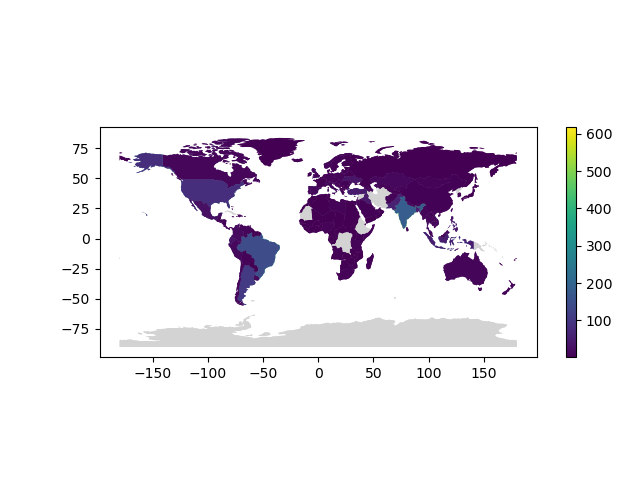
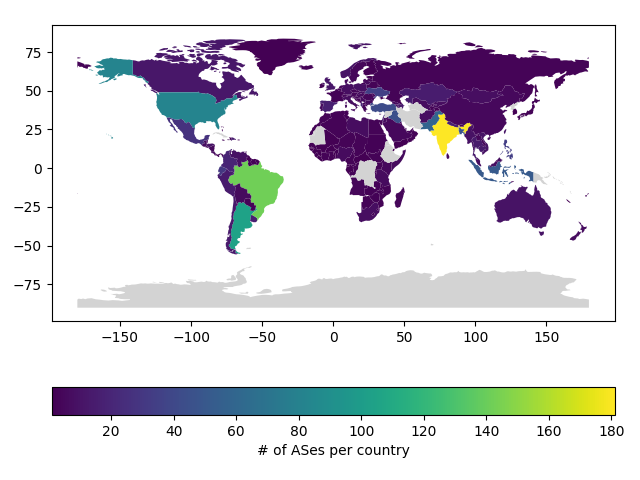
feat(offnet): add more plots per country
Add plots for hosts per country, hosts per as per country and hosts per
thousand inhabitants per country

Former-commit-id: 9a0ebf574606d72b355f8278a3e877ab7bb1fcde

diff --git a/offnet_scan/analysis/plot_per_country.py b/offnet_scan/analysis/plot_per_country.py
@@ -1,0 +1,55 @@
+import geopandas as gpd
+import matplotlib.pyplot as plt
+import pandas as pd
+
+
+def load_data(file_name):
+    load_config = {
+        "delim_whitespace": True,
+        "engine":'c',
+        "index_col":False,
+    }
+    return pd.read_csv(file_name, **load_config)
+
+population = pd.read_csv('WPP2022_TotalPopulationBySex.csv')
+population = population[population['Time'] == 2021]
+population = population[pd.notna(population['ISO2_code'])]
+population = population.filter(items=['ISO2_code', 'PopTotal'])
+
+world = gpd.read_file(gpd.datasets.get_path('naturalearth_lowres')).filter(items=['iso_a3', 'geometry'])
+mapping = pd.read_csv("country_code_mapping.csv").filter(items=['alpha-2', 'alpha-3'])
+world = world.merge(mapping, left_on='iso_a3', right_on='alpha-3', how='outer', validate='one_to_one')
+world = world[pd.notna(world['alpha-2'])]
+
+hosts = load_data('hosts_per_country.csv')
+ases = load_data('ASes_per_country.csv')
+per_country = hosts.merge(ases, on='country', how='outer')
+per_country = per_country.merge(population, left_on='country', right_on='ISO2_code')
+
+
+per_country['hosts_per_thousand'] = per_country.apply(lambda row: min(row['hosts'] / (row['PopTotal'] / 1000), 15), axis=1)
+per_country['hosts_per_as'] = per_country.apply(lambda row: row['hosts'] / row['ASes'], axis=1)
+
+merged = world.merge(per_country, left_on='alpha-2', right_on='country', how='outer', validate='one_to_one')
+merged = merged.filter(items=['country', 'geometry', 'hosts', 'ASes', 'hosts_per_as', 'hosts_per_thousand'])
+merged = merged[merged['country'] != 'None']
+
+# fig, ax = plt.subplots()
+# divider = make_axes_locatable(ax)
+# cax = divider.append_axes("right", size="2%", pad=0.1)
+
+merged.plot(column='hosts', legend=True, legend_kwds={'label': '# of hosts', 'orientation': 'horizontal'}, missing_kwds={'color': 'lightgrey'})
+plt.tight_layout()
+plt.savefig("plots/hosts_per_country.png")
+
+merged.plot(column='ASes', legend=True, legend_kwds={'label': '# of ASes per country', 'orientation': 'horizontal'}, missing_kwds={'color': 'lightgrey'})
+plt.tight_layout()
+plt.savefig("plots/ASes_per_country.png")
+
+merged.plot(column='hosts_per_as', legend=True, legend_kwds={'label': '# hosts per AS', 'orientation': 'horizontal'}, missing_kwds={'color': 'lightgrey'})
+plt.tight_layout()
+plt.savefig("plots/hosts_per_as_per_country.png")
+
+merged.plot(column='hosts_per_thousand', legend=True, legend_kwds={'label': '# hosts per 1,000 people (max 15)', 'orientation': 'horizontal'}, missing_kwds={'color': 'lightgrey'})
+plt.tight_layout()
+plt.savefig("plots/hosts_per_thousand_per_country.png")
